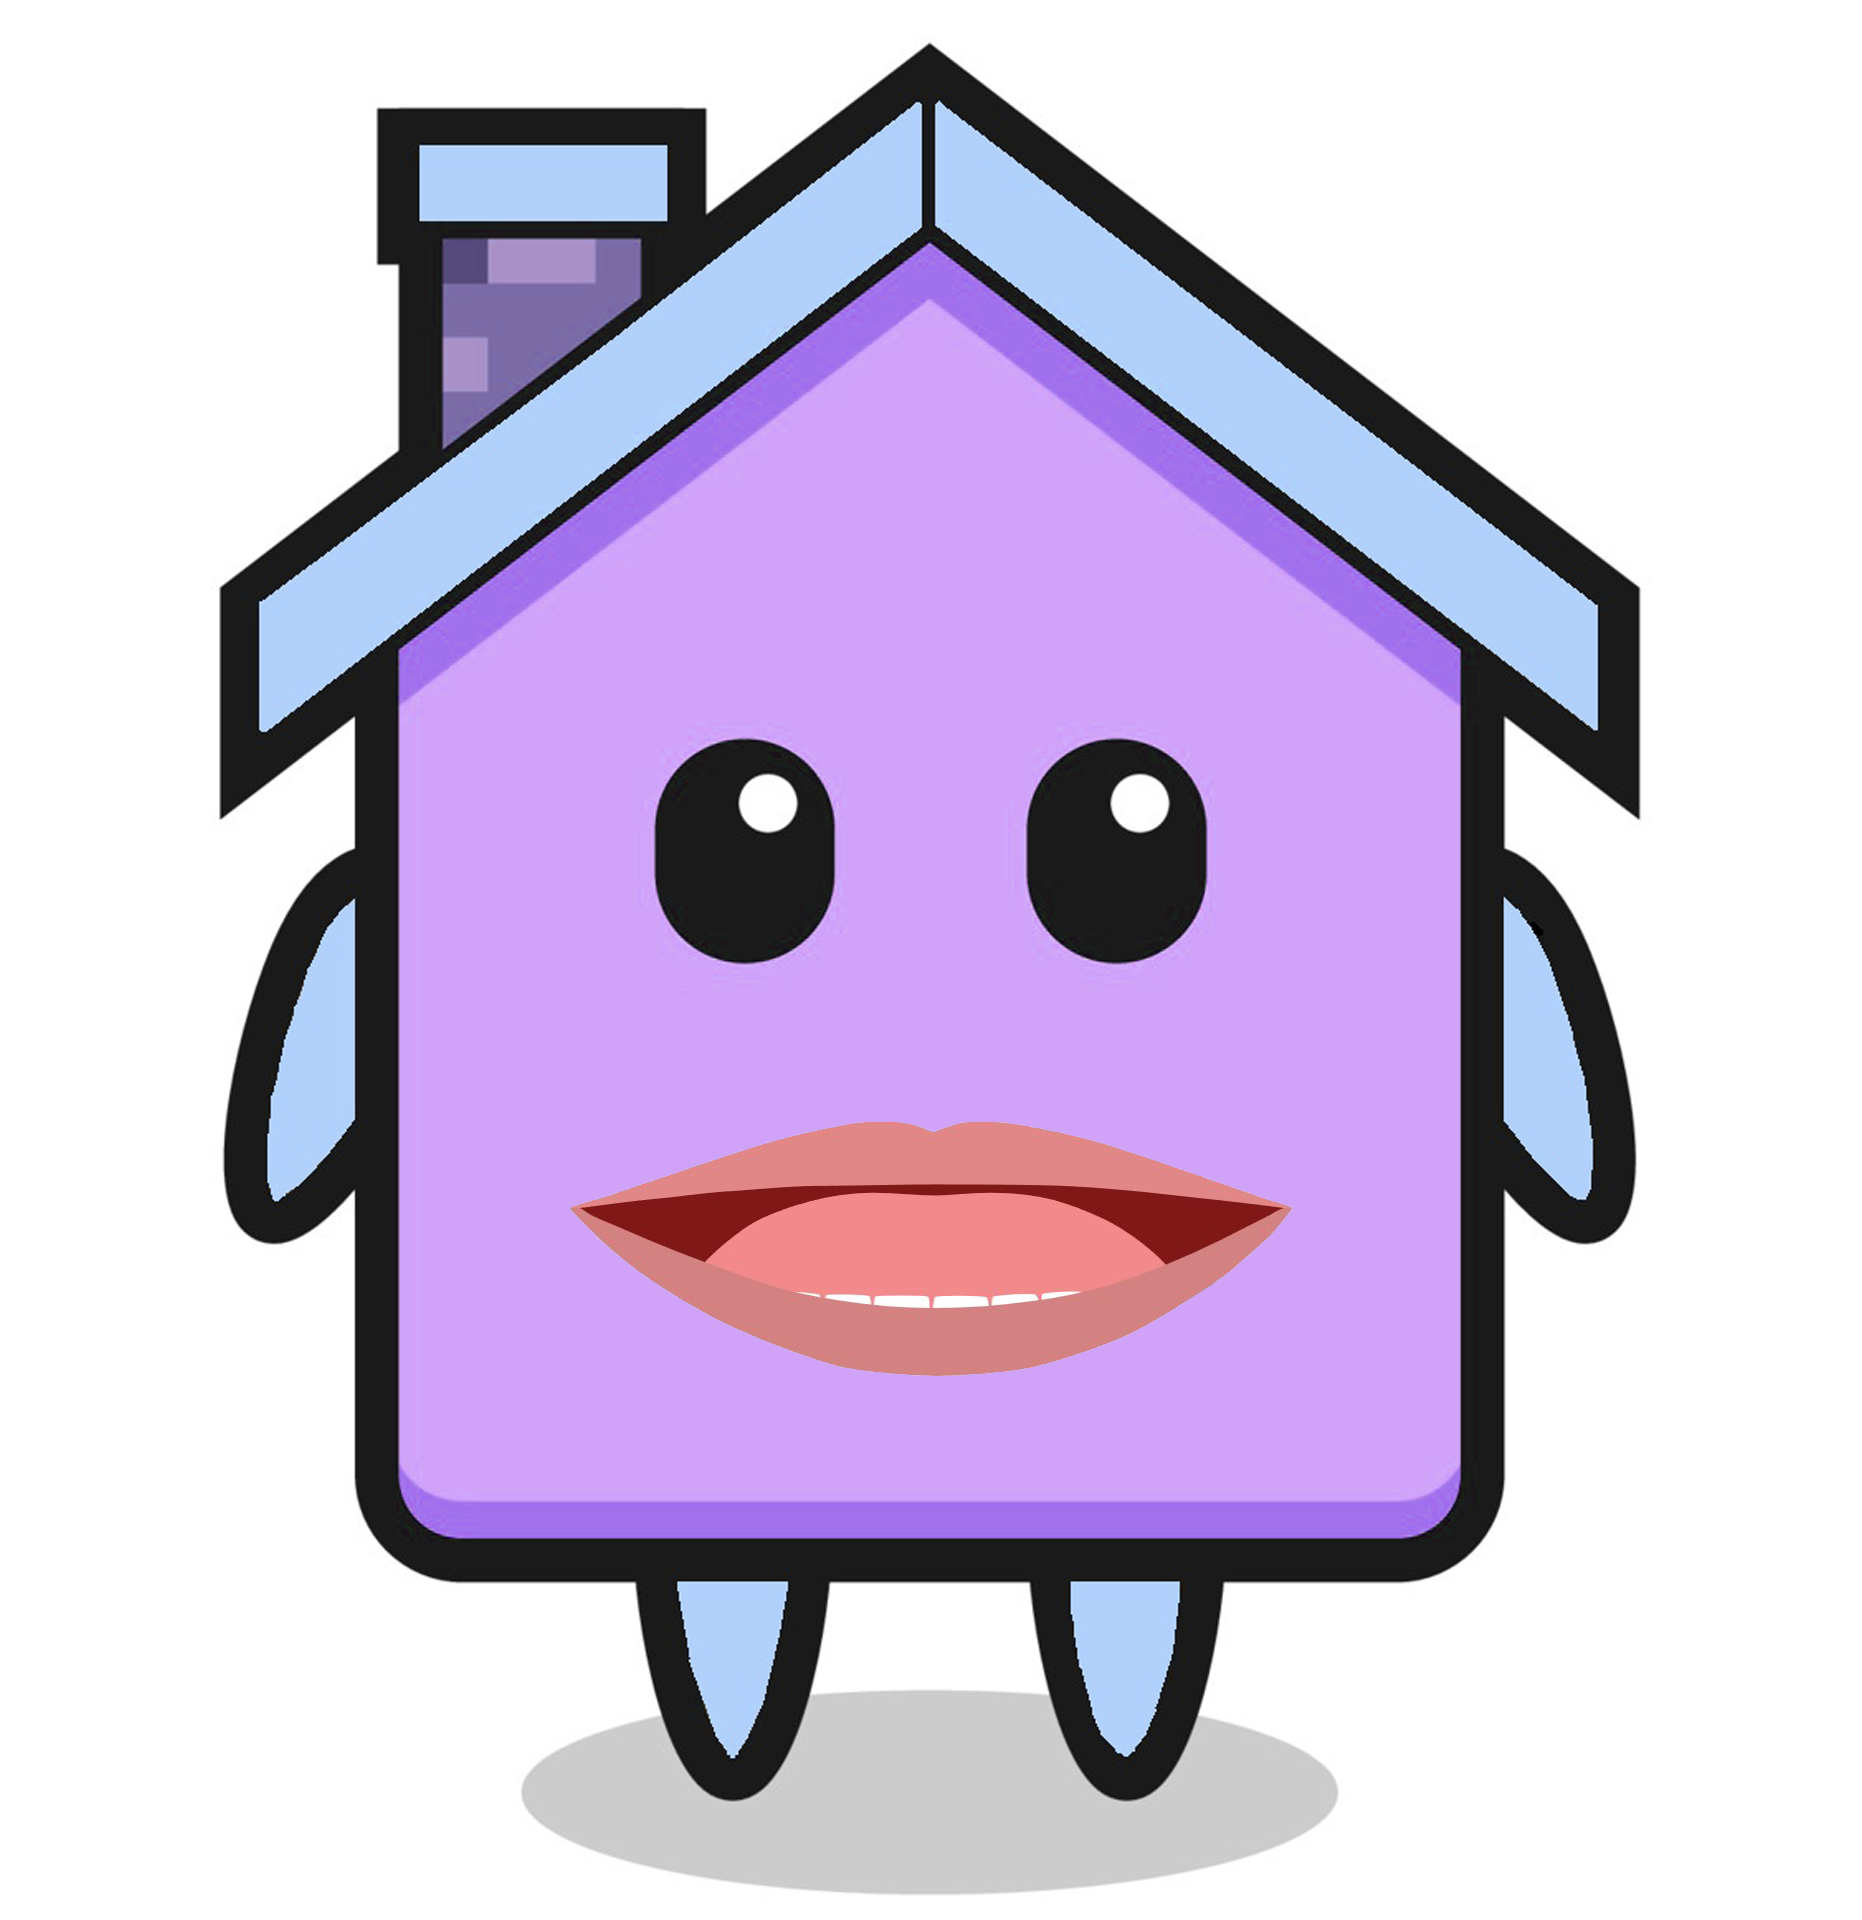
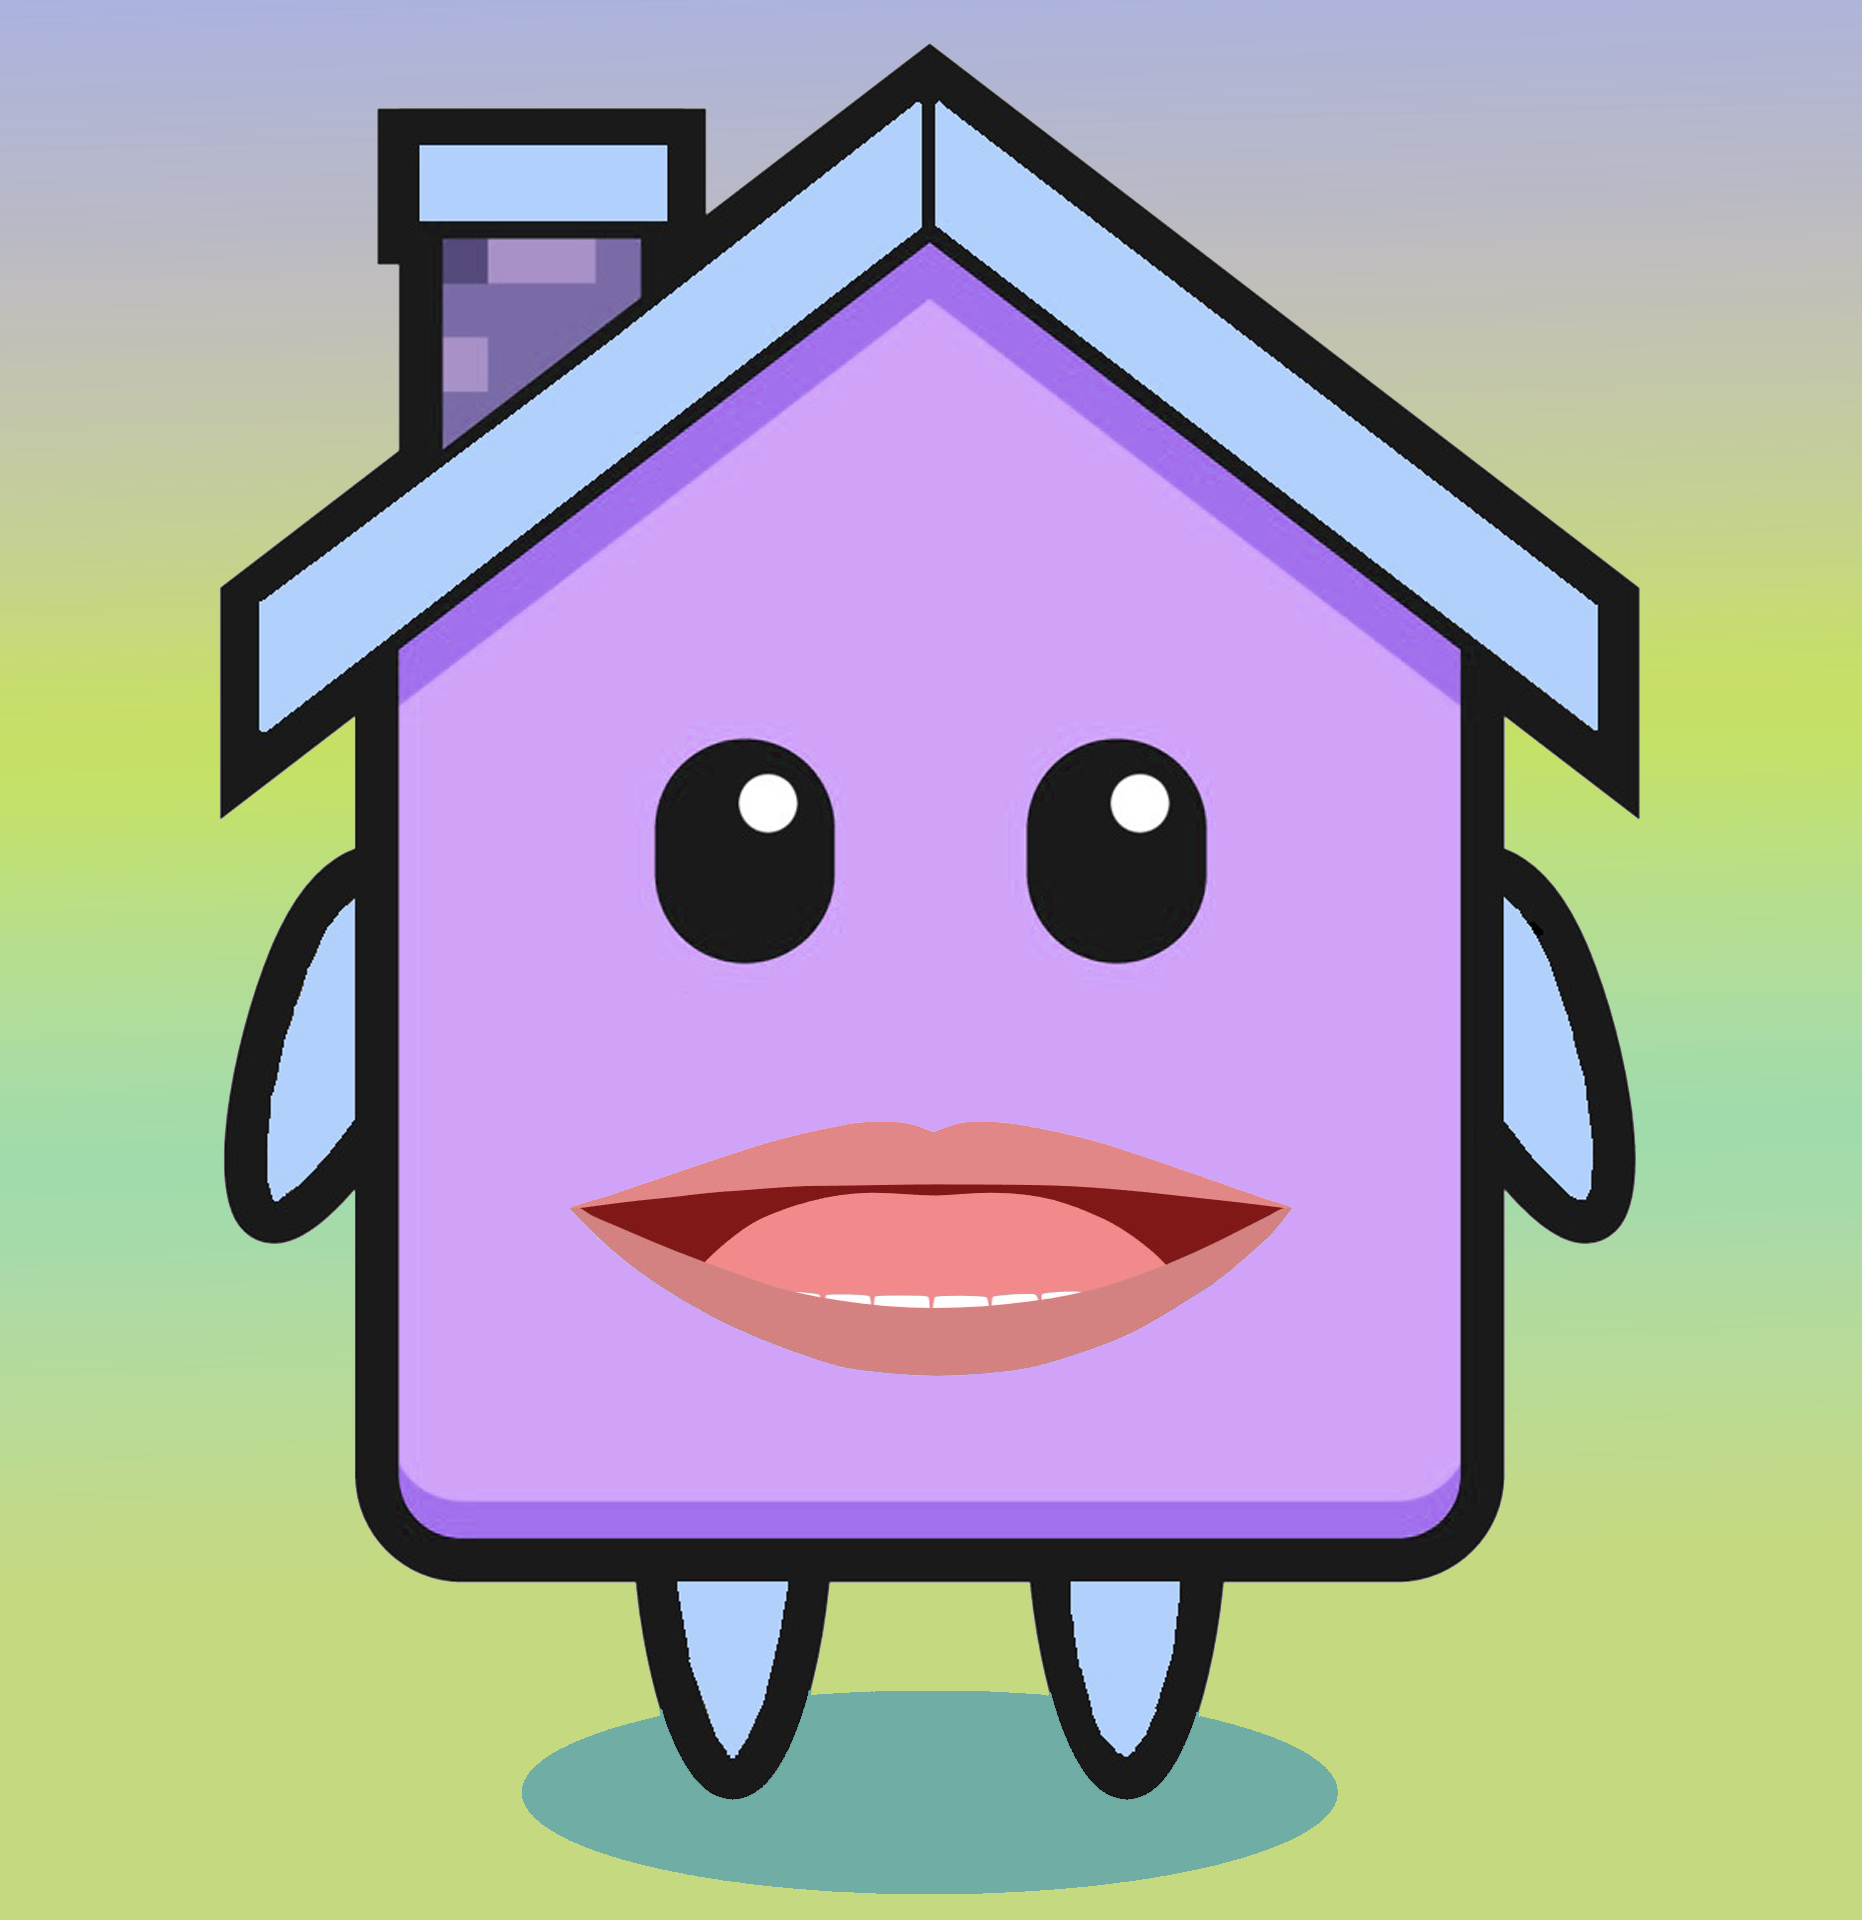
added visual updates

diff --git a/backend/main.py b/backend/main.py
@@ -257,7 +257,31 @@ html = """
 <head>
     <title>HCV Trainer</title>
     <style>
-        body { font-family: Arial, sans-serif; margin: 0; background-color: #f0f2f5; display: flex; flex-direction: column; height: 100vh; }
+        body {
+            font-family: Arial, sans-serif;
+            margin: 0;
+            display: flex;
+            flex-direction: column;
+            height: 100vh;
+            /* Set the background GIF */
+            background-image: url('/static/landscape.gif');
+            background-size: cover; /* Ensures the GIF covers the whole screen */
+            background-position: center; /* Centers the GIF */
+            background-attachment: fixed; /* Prevents the GIF from scrolling */
+        }
+
+        /* This creates the faded overlay effect */
+        body::before {
+            content: '';
+            position: fixed; /* Covers the entire viewport */
+            top: 0;
+            left: 0;
+            width: 100%;
+            height: 100%;
+            /* This is the fading layer. A semi-transparent white. */
+            background-color: rgba(255, 255, 255, 0.275);
+            z-index: -1; /* Pushes this layer behind all other content */
+        }
         #startup-overlay { position: absolute; top: 0; left: 0; width: 100%; height: 100%; background-color: rgba(240, 242, 245, 0.95); display: flex; flex-direction: column; justify-content: center; align-items: center; z-index: 100; }
         #lesson-menu { background-color: white; padding: 40px; border-radius: 10px; box-shadow: 0 4px 15px rgba(0,0,0,0.1); text-align: center; }
         .lesson-button { display: block; width: 100%; padding: 15px 20px; font-size: 1.1em; margin-top: 10px; cursor: pointer; border: 1px solid #ccc; background-color: #fff; }
@@ -265,8 +289,8 @@ html = """
         
         /* --- MODIFIED: Character Container Styles --- */
         #character-container {
-            height: 250px;
-            width: 250px;
+            height: 375px;
+            width: 375px;
             position: relative; /* This is key for layering */
             display: flex;
             justify-content: center;
@@ -290,7 +314,7 @@ html = """
             z-index: 10; /* Ensure it's on top of the base image */
         }
 
-        #chat-container { flex: 1; max-width: 800px; background: white; padding: 20px; border-radius: 8px; box-shadow: 0 2px 10px rgba(0,0,0,0.1); min-height: 400px; display: flex; flex-direction: column; }
+        #chat-container { flex: 1; max-width: 800px; background: #e0ffff; padding: 20px; border-radius: 8px; box-shadow: 0 2px 10px rgba(0,0,0,0.1); min-height: 400px; display: flex; flex-direction: column; }
         #conversation { flex-grow: 1; overflow-y: auto; }
         .message { margin: 10px 0; padding: 10px 15px; border-radius: 18px; line-height: 1.5; max-width: 70%; word-wrap: break-word; }
         .user-message { background-color: #0084ff; color: white; margin-left: auto; }
@@ -400,7 +424,15 @@ html = """
                 this.animationFrameId = requestAnimationFrame(this.monitor);
             }
         }
-
+        document.addEventListener('DOMContentLoaded', () => {
+            const completedLessons = JSON.parse(localStorage.getItem('completedLessons')) || [];
+            if (completedLessons.includes(1)) {
+                const lesson1Btn = document.getElementById('lesson-1-btn');
+                lesson1Btn.textContent = 'Lesson 1: Program Fundamentals (Completed)';
+                lesson1Btn.style.backgroundColor = '#d4edda'; // A light green color
+                lesson1Btn.style.borderColor = '#c3e6cb';
+            }
+        });
         async function initializeApp() {
             document.getElementById('startup-overlay').style.display = 'none';
             if (!audioContext) {
@@ -511,7 +543,7 @@ html = """
 
             const state = statusSpan.textContent;
             const isConversational = [
-                'INTRODUCTION', 'LESSON_QUESTION', 'LESSON_QNA', 'QNA', 'QUIZ_COMPLETE'
+                'INTRODUCTION', 'LESSON_QUESTION', 'LESSON_QNA', 'QNA'
             ].includes(state);
 
             if (!isConversational) return;
@@ -553,6 +585,27 @@ html = """
             } else if (message.type === 'quiz_question') {
                 addMessage(message.text, 'ai');
                 displayQuizOptions(message.options);
+            } 
+            // --- NEW CASE ---
+            else if (message.type === 'quiz_summary') {
+                // 1. Display the summary text in the chat
+                addMessage(message.text, 'ai');
+
+                // 2. Mark the lesson as complete in localStorage
+                let completedLessons = JSON.parse(localStorage.getItem('completedLessons')) || [];
+                if (!completedLessons.includes(message.lesson_id)) {
+                    completedLessons.push(message.lesson_id);
+                    localStorage.setItem('completedLessons', JSON.stringify(completedLessons));
+                }
+
+                // 3. Create the "Return to Menu" button
+                const returnBtn = document.createElement('button');
+                returnBtn.className = 'lesson-button';
+                returnBtn.textContent = 'Return to Lesson Menu';
+                returnBtn.onclick = () => {
+                    window.location.reload(); // Simple way to reset and go to the menu
+                };
+                quizOptionsDiv.appendChild(returnBtn);
             }
         }
 
@@ -620,6 +673,8 @@ async def websocket_endpoint(websocket: WebSocket):
     audio_input_queue = None
     lesson_step = 0
     quiz_step = 0
+    # --- NEW: Variable to track the quiz score ---
+    quiz_score = 0
 
     async def transition_to_state(new_state: AppState):
         nonlocal current_state
@@ -644,11 +699,13 @@ async def websocket_endpoint(websocket: WebSocket):
             await websocket.send_json({"type": "ai_response", "text": text})
             await stream_azure_tts_and_send_to_client(text, websocket, speech_rate)
         else:
+            # This path is taken if the user says "no" to the mid-lesson Q&A
+            response_text = "Okay, let's start the final quiz."
+            await websocket.send_json({"type": "ai_response", "text": response_text})
+            await stream_azure_tts_and_send_to_client(response_text, websocket, speech_rate)
             await transition_to_state(AppState.QUIZ_START)
-            end_text = "You've completed the lesson! Now for a final quiz."
-            await websocket.send_json({"type": "ai_response", "text": end_text})
-            await stream_azure_tts_and_send_to_client(end_text, websocket, speech_rate)
 
+    # --- MODIFIED: The advance_quiz function is completely new ---
     async def advance_quiz():
         nonlocal quiz_step
         if quiz_step < len(quiz_questions):
@@ -663,10 +720,22 @@ async def websocket_endpoint(websocket: WebSocket):
             tts_text = f"{question_data['text']}\n" + "\n".join(question_data['options'])
             await stream_azure_tts_and_send_to_client(tts_text, websocket, speech_rate)
         else:
+            # --- NEW: This is the final summary logic ---
             await transition_to_state(AppState.QUIZ_COMPLETE)
-            end_text = "You've completed the quiz! Great job."
-            await websocket.send_json({"type": "ai_response", "text": end_text})
-            await stream_azure_tts_and_send_to_client(end_text, websocket, speech_rate)
+            
+            # 1. Create the summary text
+            summary_text = f"You've completed the quiz! You scored {quiz_score} out of {len(quiz_questions)}. Great job."
+            
+            # 2. Send a special message type to the frontend
+            await websocket.send_json({
+                "type": "quiz_summary",
+                "text": summary_text,
+                "lesson_id": 1 # To mark Lesson 1 as complete
+            })
+            
+            # 3. Send the audio for the summary
+            await stream_azure_tts_and_send_to_client(summary_text, websocket, speech_rate)
+
     try:
         await transition_to_state(AppState.INTRODUCTION)
         intro_text = "Hello! I'm your HCV trainer. Before we begin, what's your name?"
@@ -681,17 +750,13 @@ async def websocket_endpoint(websocket: WebSocket):
                 data = json.loads(message["text"])
                 msg_type = data.get("type")
 
-                # --- NEW: Handle messages to update the speech rate ---
                 if msg_type == "set_speed":
                     new_rate = data.get("rate")
-                    # Validate the input to prevent malicious SSML injection
                     allowed_rates = ["+0.00%", "+11.50%", "+20.00%", "+50.00%"]
                     if new_rate in allowed_rates:
                         speech_rate = new_rate
                         logger.info(f"Client set speech rate to: {speech_rate}")
-                    else:
-                        logger.warning(f"Client sent invalid speech rate: {new_rate}")
-
+                
                 elif msg_type == "control":
                     command = data.get("command")
                     if command == "start_speech":
@@ -722,14 +787,21 @@ async def websocket_endpoint(websocket: WebSocket):
                     elif command == "tts_finished":
                         if current_state in [AppState.LESSON_PROLOGUE, AppState.LESSON_DELIVERY, AppState.LESSON_FEEDBACK]:
                             await advance_lesson()
+                        # --- MODIFIED: This now correctly triggers the first quiz question ---
                         elif current_state == AppState.QUIZ_START or current_state == AppState.QUIZ_FEEDBACK:
                             await advance_quiz()
                 
+                # --- MODIFIED: This now increments the score ---
                 elif msg_type == "quiz_answer":
                     answer = data.get("answer")
                     question_data = quiz_questions[quiz_step - 1]
                     is_correct = (answer == question_data['correct_answer'])
-                    feedback = "Correct!" if is_correct else f"Not quite. The correct answer was {question_data['correct_answer']}."
+                    if is_correct:
+                        quiz_score += 1 # Increment score on correct answer
+                        feedback = "Correct!"
+                    else:
+                        feedback = f"Not quite. The correct answer was {question_data['correct_answer']}."
+                    
                     await transition_to_state(AppState.QUIZ_FEEDBACK)
                     await websocket.send_json({"type": "ai_response", "text": feedback})
                     await stream_azure_tts_and_send_to_client(feedback, websocket, speech_rate)
